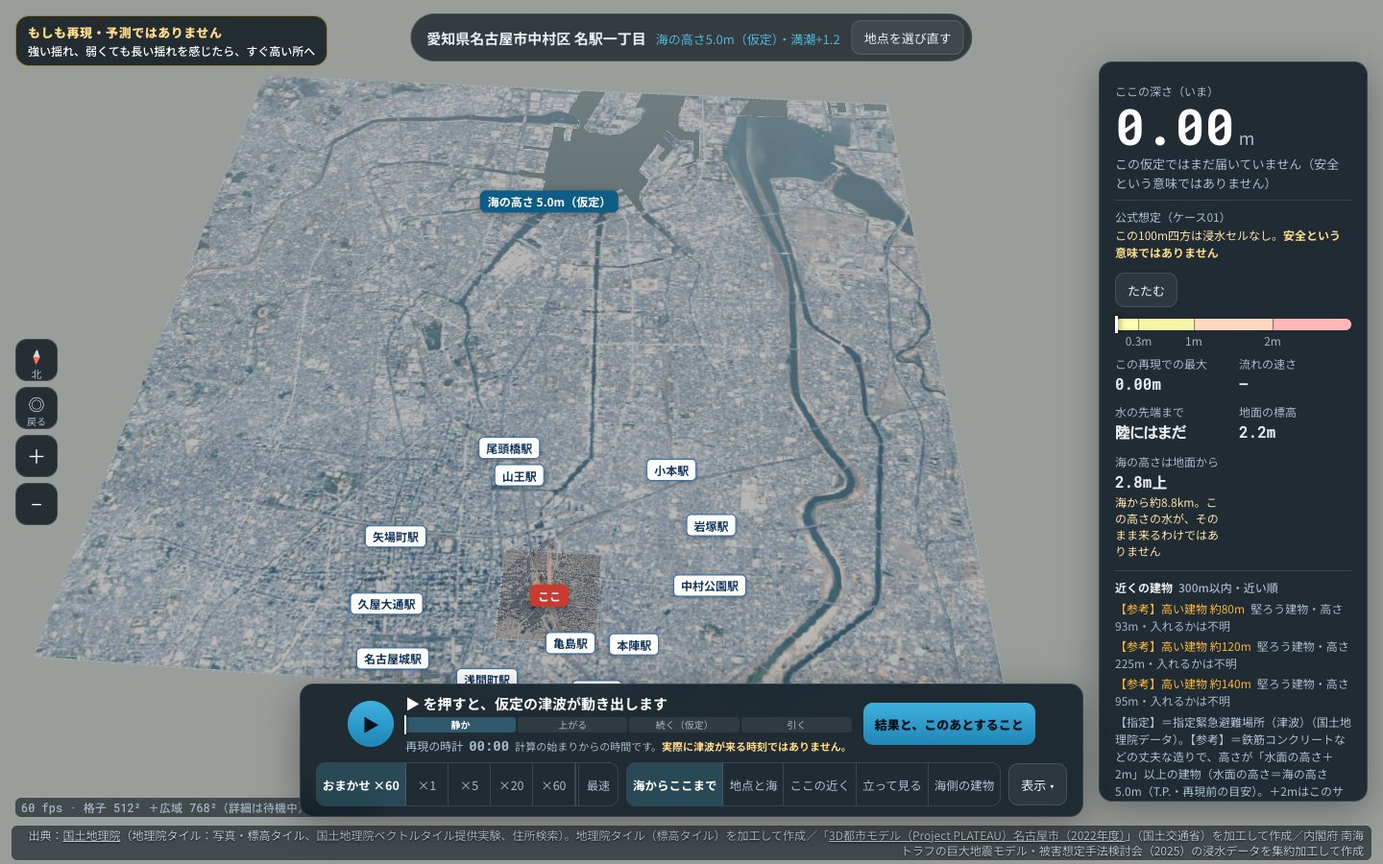
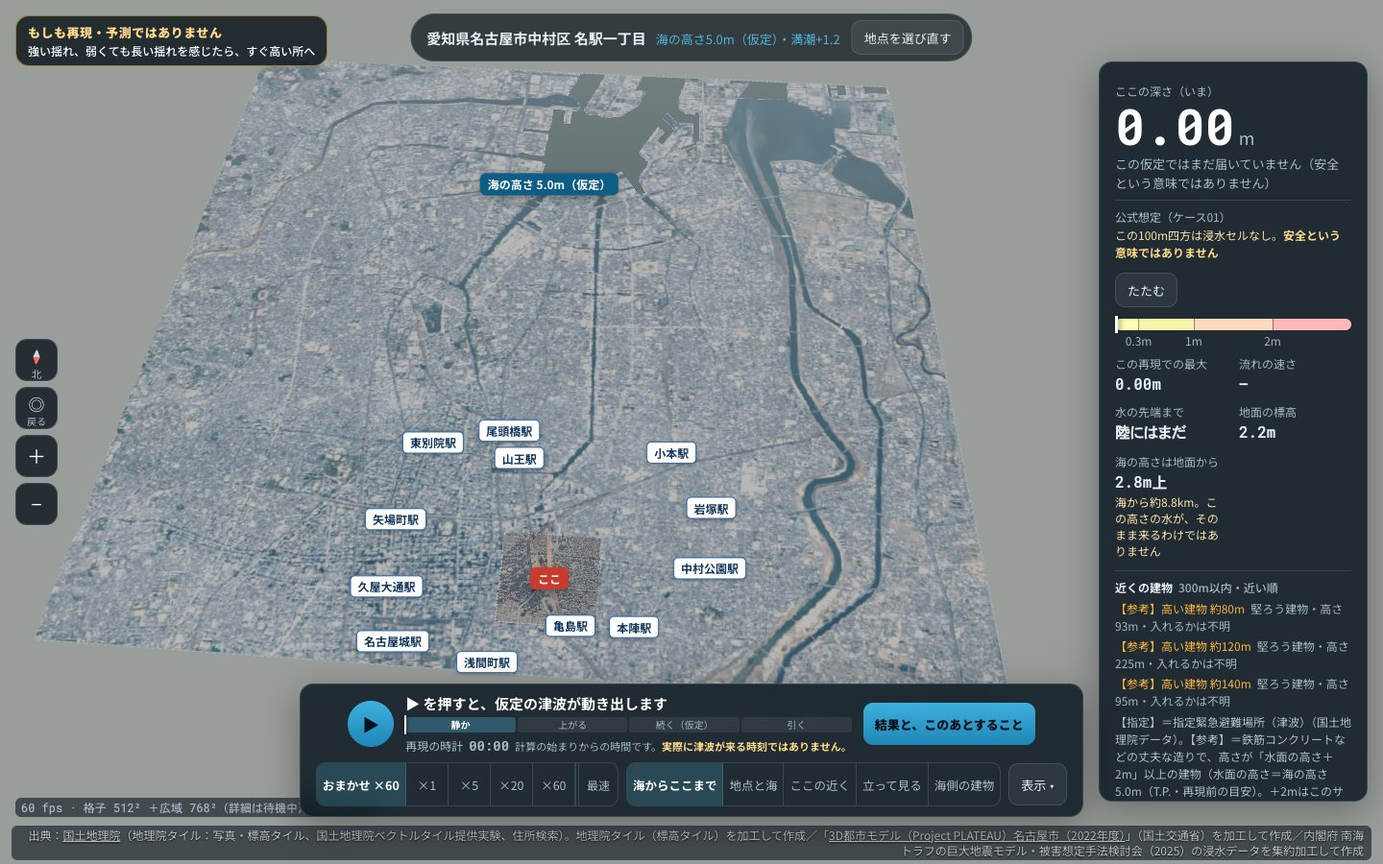
fix: 画面と3D — 最終確認 CD3（重大0・中6）の指摘を反映
- 通知（761〜1230px）：上の注意の帯と右の欄（深さの数字）にかからない位置へ
- 「引く」の段階で地点に水が着いた時も、まず「ここに水が来ました（深さ○m）」
- 【指定】の逃げる場所の札：基準点が画面の少し外でも、札は画面の内側に寄せる
- スマホ最初の画面：浸水セルなし＋周りの一部を取得できない時の注意
- 上の欄の高さが変わったら、通知の位置と絵の中心を合わせ直す
- nav.mjs：通知が何も隠さないこと（390〜1440pxの5つの幅）、札が切れないこと、の確認を追加（合格）

Changed region(s): [[0.0312, 0.0622, 0.7188, 0.8089]]

diff --git a/src/main.js b/src/main.js
@@ -930,14 +930,15 @@ async function createApp(region, o) {
     const add = (line) => (ev ? (wet ? (ev.short ? `${line}（${ev.short}）` : line) : (innerWidth <= 760 && ev.short ? ev.short : ev.text)) : line);
     if (tt < 0) return [add('沖はまだ静かです'), 'calm'];
     const trapped = pinGround < 0.3 && st.arrived != null;
+    // the moment it arrives is said as such for a minute of the run, whatever the stage (Nagoya: it arrives
+    // during 「続く」; a low place far from the sea may be reached only while the sea already falls)
+    if (wet && st.arrived != null && t < st.arrived + 60) return [add(`ここに水が来ました（深さ${h.toFixed(1)}m）`), 'arrived'];
+    const narrow = innerWidth <= 760;
     if (tt >= w.rise + w.hold) {
       if (trapped) return [add(`海は下がっても、ここの水は残ります${wet ? `（深さ${h.toFixed(1)}m）` : ''}`), 'trapped'];
-      return [add(`水が海へ戻っています（引く水も強く、危険です）${wet ? `。${deep}` : ''}`), 'back'];
+      return [add(`${narrow ? '水が引いています' : '水が海へ戻っています'}（引く水も強く、危険です）${wet ? `。${deep}` : ''}`), 'back'];
     }
     if (wet) {
-      // the moment it arrives is said as such for a minute of the run, whatever the stage (Nagoya: it arrives
-      // during 「続く」, and the line used to say only "the high level continues")
-      if (st.arrived != null && t < st.arrived + 60) return [add(`ここに水が来ました（深さ${h.toFixed(1)}m）`), 'arrived'];
       return [add(tt < w.rise ? `水が上がっています。${deep}` : `高い水位が続いています（仮定）。${deep}`), tt < w.rise ? 'wet-rise' : 'wet-hold'];
     }
     if (ev) return [innerWidth <= 760 && ev.short ? ev.short : ev.text, 'ev:' + ev.text];
@@ -1281,7 +1282,7 @@ async function createApp(region, o) {
         if (!l.visible) continue;
         tmpV.copy(l.position).project(camera);
         const x = (tmpV.x * 0.5 + 0.5) * innerWidth, w = l.element.offsetWidth || 220;
-        l.center.x = x - w / 2 < 6 ? Math.max(0, Math.min(0.5, (x - 6) / w)) : x + w / 2 > innerWidth - 6 ? Math.min(1, Math.max(0.5, 1 - (innerWidth - 6 - x) / w)) : 0.5;
+        l.center.x = x < -160 || x > innerWidth + 160 ? 0.5 : x - w / 2 < 6 ? Math.min(0.5, (x - 6) / w) : x + w / 2 > innerWidth - 6 ? Math.max(0.5, 1 - (innerWidth - 6 - x) / w) : 0.5;
       }
       $('nav-needle').style.transform = `rotate(${(-rig.azimuth()).toFixed(3)}rad)`;
       if (mapLabels && $('tg-map').checked) {
@@ -1392,6 +1393,7 @@ function onResize() {
 }
 addEventListener('resize', onResize);
 // the height of the dock, for the things that must stay clear of it (toast, side panel)
+if ('ResizeObserver' in window) new ResizeObserver(() => app?.compose()).observe(document.querySelector('#sim .hud'));
 if ('ResizeObserver' in window) new ResizeObserver(() => { $('sim').style.setProperty('--dock-h', `${Math.ceil(document.querySelector('.dock').getBoundingClientRect().height)}px`); app?.compose(); }).observe(document.querySelector('.dock'));
 // keep the dock above the (possibly two-line) credit
 {

diff --git a/src/brief.js b/src/brief.js
@@ -91,7 +91,8 @@ export function topHtml(cur) {
     const weak = a?.n && (a.max < 0.3 || (a.max < 1 && a.edge >= 100));
     state = `<b class="notsafe">安全という意味ではありません。</b>${!a?.n ? 'ほかのケースや、堤防が早く壊れる場合には、浸水することがあります。'
       : weak ? `${edgeJa(a.edge)}最大 ${a.max.toFixed(1)}m の浸水の想定があります（ケース01だけの値で、備えの上限ではありません）。`
-        : `${edgeJa(a.edge)}浸水の想定があります（周り${a.R}m以内の最大 ${a.max.toFixed(1)}m。備えは、少なくともこの深さで）。`}`;
+        : `${edgeJa(a.edge)}浸水の想定があります（周り${a.R}m以内の最大 ${a.max.toFixed(1)}m。備えは、少なくともこの深さで）。`}`
+      + (o.partial ? '周りの公式データの一部を取得できませんでした。周りに、ここに出ていない浸水の想定があるかもしれません。' : '');
   } else if (o.state === 'outside') {
     off = 'この地点は、収録している公式データの範囲の外です';
     state = '<b class="notsafe">「浸水しない」という意味ではありません。</b>自治体のハザードマップで確かめてください。';

diff --git a/src/style.css b/src/style.css
@@ -665,3 +665,5 @@ input[type=range] { width: 100%; accent-color: var(--sea); min-height: 32px; }
 @media (min-width: 761px) { .toast, #sim .toast { top: 76px; bottom: auto; } }
 #sim .seg button { padding: 8px 8px; }
 @media (min-width: 761px) { #sim .seg button { padding: 8px 6px; font-size: 12.5px; } }
+/* 通知（761〜1230px）：上の注意の帯と右の欄にかからないよう、帯の下・欄の左に置く */
+@media (min-width: 761px) and (max-width: 1230px) { .toast, #sim .toast { top: 128px; left: 16px; right: 312px; transform: none; width: auto; max-width: none; } }

diff --git a/docs/fable52/レビュー生記録/CD3_最終確認.md b/docs/fable52/レビュー生記録/CD3_最終確認.md
@@ -1,0 +1,119 @@
+# CD3　CD1・CD2 の指摘の反映（コミット ff690e1）の最終確認
+
+**重大 0件／中 6件／軽微 7件**
+
+- 対象：ブランチ fable52-improve の先頭 ff690e1。`git show ff690e1 -- src/main.js src/camera.js src/brief.js index.html src/style.css src/render/maplayer.js` の差分と、その時点のファイル全体（作業ツリーの src・index.html に未コミットの変更はない）
+- 立場：実装者とは別の確認役。ソース・ドキュメントは変更していない（このファイルだけを書いた）。git の操作はしていない。5341 のサーバーは止めていない
+- 材料：`docs/fable52/nav/`・`docs/fable52/flow3/` の画像と記録、結果「12」「13」の差分
+- 自分で動かした確認（ヘッドレス Chrome、1つずつ、合計 約3分）。出力はすべて `/private/tmp/claude-501/-Users-funakoshiakira-workspace-tsunami-city-webgpu/5aa9967f-9eea-4cbe-97ec-03e79d335b5c/scratchpad/rev3/`
+  - `nav.mjs` を最終のコードで再実行（NAV_ONLY=pc,sp,sp_inland）→ `rev3/nav/nav_report.json`：3つとも合格、エラー0
+  - 自作の `rev3/probe3.mjs`（`__t.advance` で進め、通知の位置と上の欄・帯・札の重なり、「いまの様子」の1行の移り変わりを記録）→ `rev3/out/`
+    - 名古屋港：1024×768・820×1180・1152×720・1180×820・375×667（スマホ）
+    - 高知 種崎（33.5061, 133.5693）・名駅一丁目（35.1709, 136.8815）：390×844
+  - 注意：`advance` は実時間より速く進むので、実時間で数える通知（14秒）・知らせ（4〜9秒）は、記録の上では長く残る。重なりの位置は正しいが、「どのくらいの時間か」は実時間の再生（flow3）で判断した
+
+---
+
+## 1　前回の指摘は直ったか
+
+### CD1（画面と3Dの見え方）
+
+| # | 内容 | 判定 | 根拠 |
+|---|---|---|---|
+| S1（重大） | 時計の注意が弱く、スマホで「地震から何分」と読める | **直った** | スマホ幅は `.clockline { display:none }`（`style.css` の 760px 以下）。`nav/sp_start.jpg`・`sp_running.jpg`・`flow3/sp_auto_*`・`rev3/out/sp375_*`・`sp_kochi_*` のどれにも時計はない。PC幅の文は `index.html` で「計算の始まりからの時間です。<b>実際に津波が来る時刻ではありません。</b>」（`nav/inland_wide.jpg`・`rev3/out/tab1024_toast.jpg` で表示を確認）。スマホの「いま：続く（仮定）」と帯には分・秒の数字が1つもなく、残り時間のバーと読む手がかり（時間の単位）がない。帯の区画の名前はスマホでは今も出ないが、今の段階の名前が出るので、前回の M3 の不安は解消 |
+| S2（重大） | 内陸の最初の視点で「ここ」が操作の裏 | **直った** | `fitView()`（`main.js:679-698`）で、地点と海の点が空いた所に入るまで引く。`begin()` で組み直してから視点を置く。再実行した `rev3/nav/nav_report.json`：内陸スマホ幅 pinInWide (195,591) free、PC 内陸 (572,621) free。`nav/inland_wide.jpg`・`sp_inland_wide.jpg`・`rev3/out/sp_inland_toast.jpg` で「ここ」の札が欄・操作・通知のどれにも隠れていない |
+| M1 | 内陸スマホで視点の行がはみ出す | **直った** | スマホ幅で「海からここまで」→「海から」。390×844 内陸で overflow 0（`rev3/nav/nav_report.json`）。375px 幅の内陸は測っていない（「海から」で約48px短くなったので収まる見込み：**推測**） |
+| M2 | 通知が右下のボタン・案内を覆う。「雨・漂流物ではありません」が落ちた | **直った（ただし新しい問題：中 N1・軽微 N3・N4）** | スマホ幅は上の欄のすぐ下へ移り、「北」「戻る」と重ならない（`rev3/out/sp375_report.json` 等で navpad との重なり 0）。文に「雨や漂流物ではありません」「流れています」が戻った（`main.js:1012`） |
+| M3 | スマホの帯が名前のない棒 | **直った** | 帯の左に「いま：静か／上がる／続く（仮定）／引く」（`#band-name`）。段階が変わる時だけ書き換え |
+| M4 | 知らせが状態の文を押しのける。名古屋港で「ここに水が来ました」が出ない | **直った** | `nowLine()`：水がある間は、知らせは文の後ろに（ ）で短く添えるだけ。名古屋港スマホ幅で t=961「ここに水が来ました（深さ0.2m）」（「続く」の段階）、t=997「高い水位が続いています（仮定）。ここは深さ0.5m（×20に戻しました）」（`rev3/out/sp375_report.json`）。知らせの残り時間に「計算の時間で150秒まで」の上限が入った。ただし「引く」の段階に入ってから着いた時は除かれている（中 N2） |
+| M5 | 引く段階の文が深さも危なさも言わない | **直った** | 高知 種崎 t=1518〜「水が海へ戻っています（引く水も強く、危険です）。ここは深さ9.9m」（`rev3/out/sp_kochi_report.json`）。名古屋港でも同じ |
+| M6 | スマホで名前の札がほとんど出ない | **一部** | 内陸スマホ幅の最初の視点で6つ（亀島駅ほか。`rev3/nav/nav_report.json`）。名古屋港のスマホ幅は「地点と海」「ここの近く」とも0のまま（同）。結果「13」に「0のまま」と書いたので隠してはいないが、利用者の多いスマホで、港の地点では札の効果がない |
+| M7 | 【指定】の逃げる場所の札が画面の端で切れる | **一部** | 札の基準点が画面の内側にある時だけ寄せる作り（`main.js:1280-1284`。`center.x` を 0〜0.5 にしか動かさない）。基準点が画面の外にあると切れたまま。375×667 では「【指定】津波の避難場所 約190m」が全部読める（`nav/sp_small_start.jpg`）が、**390×844 では「【指定】」が切れ**（`nav/sp_start.jpg`・`sp_running.jpg`・`flow3/sp_auto_note.jpg`）、**820×1180 では「の避難場所 約190m」だけ**（`rev3/out/tab820_toast.jpg`） |
+| M8 | 3Dの見える面積60%は条件のよい時だけ | **一部** | 結果「13」の数字は実測の条件つきに書き直された（開始 68.3%・再生中 62.2%・表示を開くと 20.5%・高知 約47〜49%・375×667 59.1%）。60%を下回る条件の手当てはない。`nav.mjs` の再生中の測定は、今も通知を消し、知らせが消えるまで待ってから測る |
+| M9 | 名古屋港スマホで ×5→×20→×5 と行き来 | **直った** | `flow3/sp_auto_timeline.json`：t=714 防潮壁 ×5 → t=833.7 そのまま「近づいた」×5 → t=998.5 ×20。PC も t=681→767→881 と途切れない |
+| M10 | 立って見るで、柱の札が右の欄の裏 | **直った** | 視点を選んだ直後の絵（`flow3/pc_views_eye_900s.jpg`・`pc_auto_eye_700s.jpg`）では、柱は画面の中央寄りで、「海の高さ 5.0m = 地面から 1.3m」が読める。`nav/pc_eye.jpg` は首を200px振った後の絵なので、柱が右へ寄るのは操作のとおり |
+| M11 | 引き波の向きの根拠が高知の2枚 | **直った** | 結果「12」7章を名古屋港の数（押し波で陸向き・引き波で海向き、陸の上の印の割合）に差し替え、高知では「言えなかった」と明記 |
+
+### CD2（コード）
+
+| # | 内容 | 判定 | 根拠 |
+|---|---|---|---|
+| 中1 | #now-line が深さ0.1mごとに読み上げられる | **直った** | `#now-line` から aria-live を外し、読み上げは sr-only の `#now-live` に、状況の鍵（calm・land・breach・arrived・wet-rise・wet-hold・back など）が変わった時だけ書く（`main.js:970`）。水がある間に起きた出来事は読まれない（軽微 N7） |
+| 中2 | 立って見るとの行き来で「ぽん」と寄る | **直った** | 立って見るへの出入りは瞬時の切替（`camera.js:65`・`69`）。距離の制限を混ぜる途中経過がなくなった |
+| 中3 | ホイールで切替が止まる | **直った** | 独自の wheel を外し、OrbitControls の 'start' だけ。立って見る間は `enableZoom=false` なので、ホイールは 'start' を出さない（three 0.186 の onMouseWheel は enableZoom が偽なら何もしない） |
+| 中4 | 最初の画面に「海や川にかかる」「一部を取得できていない」の注意がない | **一部** | 浸水あり（hit）には2つとも入った（`brief.js:82-83`）。**浸水セルなし（none）の時の「一部を取得できませんでした」は、今も最初の画面に出ない**（`brief.js:87-94`。下の欄 `officialHtml` には出る）。none の時の「海や川にかかるセルを含む」も出ない（こちらは備えを深めに言う向きなので軽い） |
+| 中5 | 北を上に・Q/E がカメラを真上へ振る | **直った** | 回す時は、注視点（立って見る時は目）を通る縦の軸のまわりの円弧（`camera.js:96-101`）。`north()` は ±π の短い向き。再実行した nav で north 0・keyboard 合格 |
+| 中6 | 流れの印が出始めに少ない（推測） | **対応なし（確かめられなかった）** | コードの変更はない。結果「13」は「画像で読めることを確かめた」とするが、本数を数えた記録はない。今回も数えていない |
+
+---
+
+## 2　新しく見つけた指摘
+
+### 中
+
+#### N1　PC・タブレット幅（761〜約1230px）で、上に移した通知が「もしも再現・予測ではありません」の帯と、「ここの深さ（いま）」の数字の先頭を隠す
+- 場所：`src/style.css:665`（761px以上で `.toast, #sim .toast { top: 76px; bottom: auto; }`。幅は `style.css:434` の `max-width: min(640px, …)`・中央寄せのまま）
+- 何が起きるか（陸に初めて水が上がった時に、実時間14秒）：
+  - 1024×768：通知 [192,76]–[832,151]。左上の帯（`.badge`。761〜1100px では `top:64px`）の「…ありません」と2行目「すぐ高い所へ」が通知の裏に入る（`rev3/out/tab1024_toast.jpg`）
+  - 820×1180（iPad の縦）：帯は「もしも再現」しか見えない（`rev3/out/tab820_toast.jpg`）
+  - 1152×720：右の欄（`.hud`、この幅では `top:64px`）の左端40pxにかかり、**深さの数字の先頭の桁が隠れる**（「0.55 m」が「.55 m」に見える。`rev3/out/w1152_end.jpg`）。1180×820（iPad Air の横）でも 26px かかる（`rev3/out/w1180_report.json`）。計算では、右の欄と通知が重なるのは 幅 < 1232px（欄の左 = 幅−296、通知の右 = 幅/2+320）
+  - 1440×900 では重ならない（`flow3/pc_views_eye_900s.jpg`）。スマホ幅は別の位置（N3）
+- 重大にしない理由：14秒で消え、×で閉じられる。同じ深さが「いまの様子」の1行（「ここは深さ0.5m」）と3Dの札（「ここの深さ 0.5m」）にも出ている。試した3地点では、通知が出るのは t≈41秒（陸の低い所に最初の水が乗った時）で、地点はまだ乾いており、隠れるのは「0.00」の先頭の「0」だった。ただし、陸に最初の水が乗る時と地点に着く時が近い地点（海のすぐそばの地点）では、隠れる桁が「1.」「2.」になりうる（**推測**：そういう地点では試していない）
+- 直し方の案：761px 以上では、通知の左右を「帯の右端〜右の欄の左端」の間に収める（例：`left: 360px; right: 312px; transform: none; width: auto`）か、PC幅は前の位置（下の操作のすぐ上。PC では右下にボタンがないので M2 は起きない）に戻す。`nav.mjs` に「通知が出ている間、.badge・.hud・.topbar と重ならない」を 820・1024・1180・1440 で足す
+
+#### N2　「引く」の段階に入ってから地点に水が着くと、「ここに水が来ました」が出ず、「水が海へ戻っています」になる。読み上げもされない
+- 場所：`src/main.js:933-941`（`tt >= w.rise + w.hold` の分岐が、`wet` と `st.arrived` の分岐より先に返す）
+- 何が起きるか：引く段階（計算の時計で 1508秒以降）に初めて水が着いた地点では、着いた瞬間の1行が「水が海へ戻っています（引く水も強く、危険です）。ここは深さ0.2m」。水がこれから深くなるのに「戻っています」と言うので、危なさが減っていく途中と読める。読み上げの鍵は着く前から 'back' のままなので、着いたことは読まれない。コメント（`:938`「whatever the stage」）とも食い違う
+- 根拠：コードの順番。試した3地点（名古屋港 t=936、高知 t=559、名駅一丁目＝着かない）では起きなかった。海から離れた低い土地で、陸を伝って遅れて着く地点で起きる（**推測**：そういう地点は実際には動かしていない）
+- 直し方の案：`st.arrived != null && t < st.arrived + 60` の「ここに水が来ました（深さ○m）」を、引く段階の分岐より前に置く（鍵 'arrived' も）
+
+#### N3（＝CD1 M7 の残り）【指定】の札が、390px・820px で切れる
+- 1章の M7 のとおり。基準点が画面の外の時も寄せる（`center.x` を負の値まで許す、または `x < 6` の時は札を `x = 6` に置く）。`nav.mjs` に「【指定】の札の左端 ≥ 0・右端 ≤ 幅」を 375・390・820 で足す
+
+#### N4（＝CD2 中4 の残り）浸水セルなし＋周りの一部が取得できない時、最初の画面にその注意がない
+- 場所：`src/brief.js:87-94`
+- 何が起きるか：周りのタイルが取れず、周りの浸水セルが0件に見える時、最初の画面は「安全という意味ではありません。ほかのケースや、堤防が早く壊れる場合には、浸水することがあります」だけになり、「周りのデータが欠けている」ことが分からない（「安全という意味ではありません」は太字で残るので、重大にはしない）
+- 直し方の案：hit と同じ `<small class="cav">周りの公式データの一部を取得できませんでした…</small>` を none にも足す
+
+#### N5（＝CD1 M6 の残り）名古屋港のスマホ幅で名前の札が0
+- 1章の M6 のとおり（記録はされている）
+
+#### N6（＝CD1 M8 の残り）条件の悪い時の3Dの見える面積
+- 1章の M8 のとおり。加えて 375×667 では、引く段階の1行が4行に折れて（「水が海へ戻っています（引く水も強く、危険です）。ここは深さ1.4m」）、上の欄の下端 202px〜操作の上端 約512px の約46%になる（`rev3/out/sp375_end.jpg`）
+
+### 軽微
+
+| # | 場所 | 何が起きるか | 根拠 | 直し方の案 |
+|---|---|---|---|---|
+| N7 | `main.js:721`（`--hud-b` は `compose()` の時だけ書く）・`:1395`（ResizeObserver は `.dock` だけ） | スマホ幅で、上の欄の高さが `compose()` の後に変わると、通知の位置が古いまま上の欄の最後の行に重なる。高知 種崎で上の欄の下端 225px に対し `--hud-b` 208px、名駅一丁目で 207px に対し 190px。「安全という意味ではありませ**ん）**」の最後が通知の裏に入った（`rev3/out/sp_kochi_toast.jpg`・`sp_inland_toast.jpg`）。文の意味は読めるが、1行まるごと隠れることもありうる | `rev3/out/sp_kochi_report.json` の toastLog | `.hud` も ResizeObserver で見る。または通知を出す時に `getBoundingClientRect()` で位置を決める |
+| N8 | 通知の位置（スマホ 375×667） | 通知の高さ 132px が、3Dの見える所（186〜523px）の約4割を14秒覆い、「海の高さ 5.0m（仮定）」の札と海側を隠す（`rev3/out/sp375_toast.jpg`）。初回の操作の案内（`.nav-hint`）が【指定】の札の下半分に重なる（同じ画像。以前からの位置） | `rev3/out/sp375_report.json` | スマホでは通知の文を2行に縮める（「細い線＝水の流れ（雨ではありません）。明るいふち＝深さ約5cm」）か、「表示」の凡例へ誘う1行にする |
+| N9 | `main.js:930`・`:943`（スマホ幅で、地点が乾いている時は知らせの短い形だけ） | スマホでは「水が防潮壁を越え、壊れ始めました」（「越えたら壊れる、とする仮定」が落ちる）、「家屋が流され始めました」（「構造は推定」「浸水2m・気象庁の目安」が落ちる）が、事実の文として出る。乾いた地点で「引く」の時は、知らせの間「（引く水も強く、危険です）」も消える | コード。`rev3/out/sp375_report.json` t=375・737 | 短い形にも「（仮定）」を残す（「防潮壁を越え、壊れ始めました（仮定）」）。引く段階では知らせを（ ）で添える形にそろえる |
+| N10 | `main.js:928`（`wet = h >= 0.01`、`h.toFixed(1)`） | 深さ 0.01〜0.049m の間、「ここに水が来ました（深さ0.0m）」「ここは深さ0.0m」と出る。「水が来た」と「0.0m」が食い違い、0.0m は「水はない」と読める | コード | 0.05m 未満は「（深さ5cm未満）」と書く |
+| N11 | `main.js:970`（鍵が変わらない限り読まない）・`style.css` のスマホ幅 `.clockline { display:none }` | 水がある間の出来事（家屋が流され始めた等）は、1行には（ ）で出るが読み上げられない。スマホでは `#phase`（sr-only の段階名）が時計の行ごと消え、`#band-name` は aria-hidden なので、読み上げソフトでは段階名を得る所がない（1行の読み上げで補われるのは状況が変わった時だけ） | コード | 出来事の時は `#now-live` に出来事の文だけを書く。`#phase` を時計の行の外へ出す |
+| N12 | `main.js:743`・`maplayer.js:48-49`・`:76`（駅は、どの視点でも見える距離が6倍。順番は「種類の優先度→地点からの距離」で上位90件） | 内陸では、広い範囲の駅が上位90件を占め、地点の近くの警察署・町名が札の候補から落ちうる。結果「13」の名古屋駅の前の例から「中村警察署」「椿町」が消え、今回の記録も「名鉄名古屋駅・近鉄名古屋駅・グロービス経営大学院大学」の3つ（`docs/fable52/nav/nav_report.json` の inland.labels。inland は再実行していない。**推測**：候補の件数は数えていない）。近い視点で、何kmも先の駅名が地平線に並ぶこともありうる（**推測**） | 記録とコード | 広い範囲の名前は、「海からここまで」の時だけ候補にする（`far` の札は `rig.view === 'wide'` の時だけ）。上位90件は、中の箱と外の箱で別に取る |
+| N13 | `nav.mjs`（sp の再生中の測定） | 通知を消し、知らせが消えるのを9.5秒待ってから測るので、今回の N1・N7・N8（通知の位置）を確かめていない。コミットの「全合格」は、この条件の下での合格 | `scripts/fable52/nav.mjs:225-228` | 通知を出したままの測定と、PC・タブレット幅（820・1024・1180）の重なりの確認を足す |
+
+（軽微の件数は N7〜N13 の7件）
+
+---
+
+## 3　確かめたが問題なかった点
+
+- **「いまの様子」の1行**：どの分岐でも、水がある時に深さが落ちることはない（知らせは（ ）で後ろに添えるだけ。短い形のない知らせは今はない）。「沖はまだ静か」は計算の始まりの8秒だけ。終わりは「再現はここまで。実際の津波は、くり返し来ます」。乾いたまま終わる内陸では「陸に水が上がりました」が続き、上の欄に「安全という意味ではありません」が残る（`rev3/out/sp_inland_report.json`）。「安心」に読める文は見つからなかった（例外は中 N2 の引く段階の到着）
+- **知らせの長さ**：実時間の秒数に、計算の時間で150秒の上限が入った（×60 で9分残る問題は解消）
+- **ゆっくり**：PC・スマホとも防潮壁→近づいた→着いた後まで途切れず、着いた後 約60秒で ×20 に戻る（`flow3/*_timeline.json`）
+- **視点の操作**（`camera.js` を通読、nav を最終コードで再実行）：立って見るとの出入りは瞬時、回す向きは北が0・時計回りが正で `turn(-azimuth())` が正しく北へ戻す（nav の north 0）。立って見る間は＋−が押せない表示（`disabled`、薄く）になり、別の地点でも次の視点で戻る。ホイール・2本指は、効かない時に切替を止めない。キーボード（矢印・＋−・Q/E・N・0、`;` 単独では寄らない）。破綻は見当たらない
+- **スマホ最初の画面の4つの状態**：浸水あり（`nav/nagoya_card.jpg`：ここ1.3m／周り2.5m・備えは深いほうで・最も早くて約108分・猶予ではない・【指定】の道のり）、浸水セルなし（`kochi_card.jpg`：「安全という意味ではありません」＋すぐ隣の 6.6m・備えは少なくともこの深さで＋**ケース01が最大でない注意**、`inland_card.jpg`：近くの高い所への道のりの案内つき）、範囲外（`niigata_card.jpg`：「『浸水しない』という意味ではありません。自治体のハザードマップで確かめてください」）、取得失敗（コードで確認：「取得できませんでした（通信）」＋「『浸水しない』という意味ではありません」）。弱い近隣値は「ケース01だけの値で、備えの上限ではありません」と、下の欄と同じ扱いになった
+- **スマホ幅の通知**：右下の「北」「戻る」と重ならない。上の欄の高さが変わったあとは、位置が追いつく（`--hud-b` 202px→通知 208px など）
+- **新しい名前の札・光の柱**：内陸の「海からここまで」の駅名の並び（栄・名古屋城が東、栄生・東枇杷島が北西、尾頭橋が南）は地理と合う。重なり0
+- 自分で動かした確認では、ページのエラーは0件
+
+## 4　確かめられなかった点
+
+- 実機のスマートフォン・タブレット（iOS Safari の `dvh`・安全領域・横向き）。N1 は Chrome の画面幅を変えての確認
+- 引く段階に入ってから水が着く地点の実再生（中 N2 は、コードの順番からの指摘）
+- 陸に最初の水が乗るのと地点に着くのが近い地点で、N1 の「数字の先頭の桁」が 0 以外になるか
+- 375px 幅の内陸（視点5つ）のはみ出し（M1 は見込み）
+- 流れの印の本数（CD2 中6）、読み上げソフトでの実際の聞こえ方（中1・N11）
+- 「最速」・×60 の実時間の再生での知らせの残り方（150秒の上限はコードで確認）
+- 内陸で、札の候補が上位90件で足りているか（N12 は推測）
